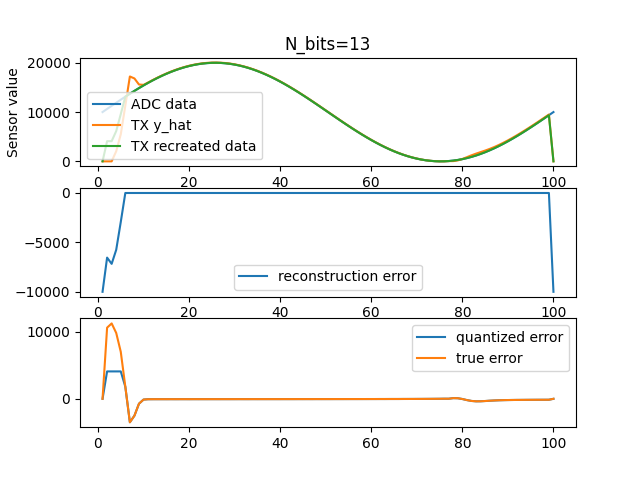
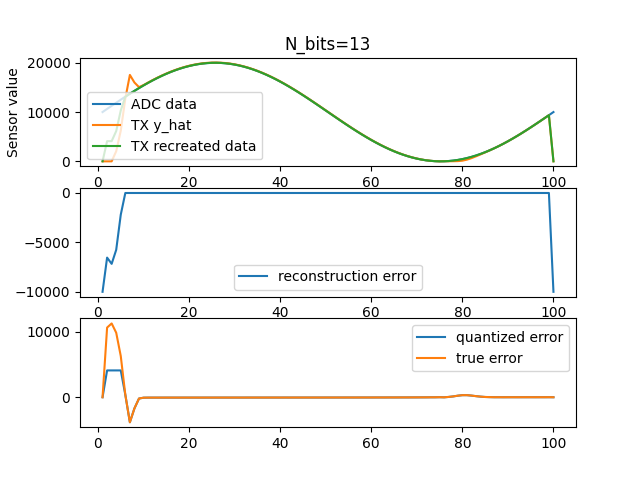
fix prepare_params_for_prediction func

diff --git a/lab1_ndpcm_library.py b/lab1_ndpcm_library.py
@@ -35,8 +35,8 @@ def init(n, h_depth, n_bits):
         np.zeros(n), 
         np.zeros(n)
     )
-    data_block.phi[0] = np.array([0, 0, 0])
-    data_block.theta[0] = np.array([0, 0, 0])
+    data_block.phi[0] = np.zeros(h_depth)
+    data_block.theta[0] = np.zeros(h_depth)
     data_block.y_recreated[0] = 0
     ### Modify initial value for any component, parameter:
     # ...
@@ -45,7 +45,7 @@ def init(n, h_depth, n_bits):
 def calculate_alpha_max(phi):
     phi_norm_sq = np.dot(phi, phi)
     if phi_norm_sq < 1e-10:
-        result = 1.0  
+        result = 0.002  
     else:
         result = 1 / phi_norm_sq
     return result
@@ -61,41 +61,25 @@ def calculate_kv_max(phi, alpha_):
     return kv_max
 
 def prepare_params_for_prediction(data_bloc, k):
-    alpha=calculate_alpha_max(data_bloc.phi[k])
     # Update weights for next round (k) based on previous k-1, k-2,...
     # TODO: for first iteration INITIALIZE 'phi' and 'theta'
     if (k == 1):
-        alpha=0.002
-        data_bloc.phi[0] = np.array([0, 0, 0])
-        data_bloc.theta[0] = np.array([0, 0, 0])
-        return
-    if (k == 2):
-        data_bloc.phi[1] = np.array([data_bloc.y_recreated[1], data_bloc.y_recreated[0], 0])
-        alpha=calculate_alpha_max(data_bloc.phi[1])
-        data_bloc.theta[1] = data_bloc.theta[0]+alpha*data_bloc.eq[1]*data_bloc.phi[0]
-        return
-    if (k == 3):
-        data_bloc.phi[2] = np.array([data_bloc.y_recreated[2], data_bloc.y_recreated[1], data_bloc.y_recreated[0]])
-        alpha=calculate_alpha_max(data_bloc.phi[2])
-        data_bloc.theta[2] = data_bloc.theta[1]+alpha*data_bloc.eq[2]*data_bloc.phi[1]
+        data_bloc.phi[0] = np.zeros(data_bloc.h_depth)
+        data_bloc.theta[0] = np.zeros(data_bloc.h_depth)
         return
     
     # TODO: Fill 'phi' history for 'h_depth' last elements
-    data_bloc.phi[k-1] = np.array([
-        data_bloc.y_recreated[k-1], ## Add last recreated value (y(k-1)
-        data_bloc.y_recreated[k-2], ## Copy shifted from previous history (y(k-2))
-        data_bloc.y_recreated[k-3]
-        ])
-    alpha=calculate_alpha_max(data_bloc.phi[k-1])
+    for i in range(0, data_bloc.h_depth-1):
+        data_bloc.phi[k-1][i] = data_bloc.y_recreated[k-i-1]
+
+    alpha = calculate_alpha_max(data_bloc.phi[k-1])
     # print("e=", data_bloc.eq[k])
     # print("eT=", data_bloc.eq[k].transpose())
     # TODO: Update weights/coefficients 'theta'
-    
-    #data_bloc.theta[k-1] = np.clip(data_bloc.theta[k-2] + alpha * data_bloc.eq[k-1] * data_bloc.phi[k-2],-1.0, 1.0)
-    data_bloc.theta[k-1] = data_bloc.theta[k-2] + alpha * data_bloc.eq[k-1] * data_bloc.phi[k-2]
-    
-    return
 
+    data_bloc.theta[k-1] = data_bloc.theta[k-2] + alpha * data_bloc.eq[k-1] * data_bloc.phi[k-2]
+
+    return
 
 def predict(data_bloc, k):
     
